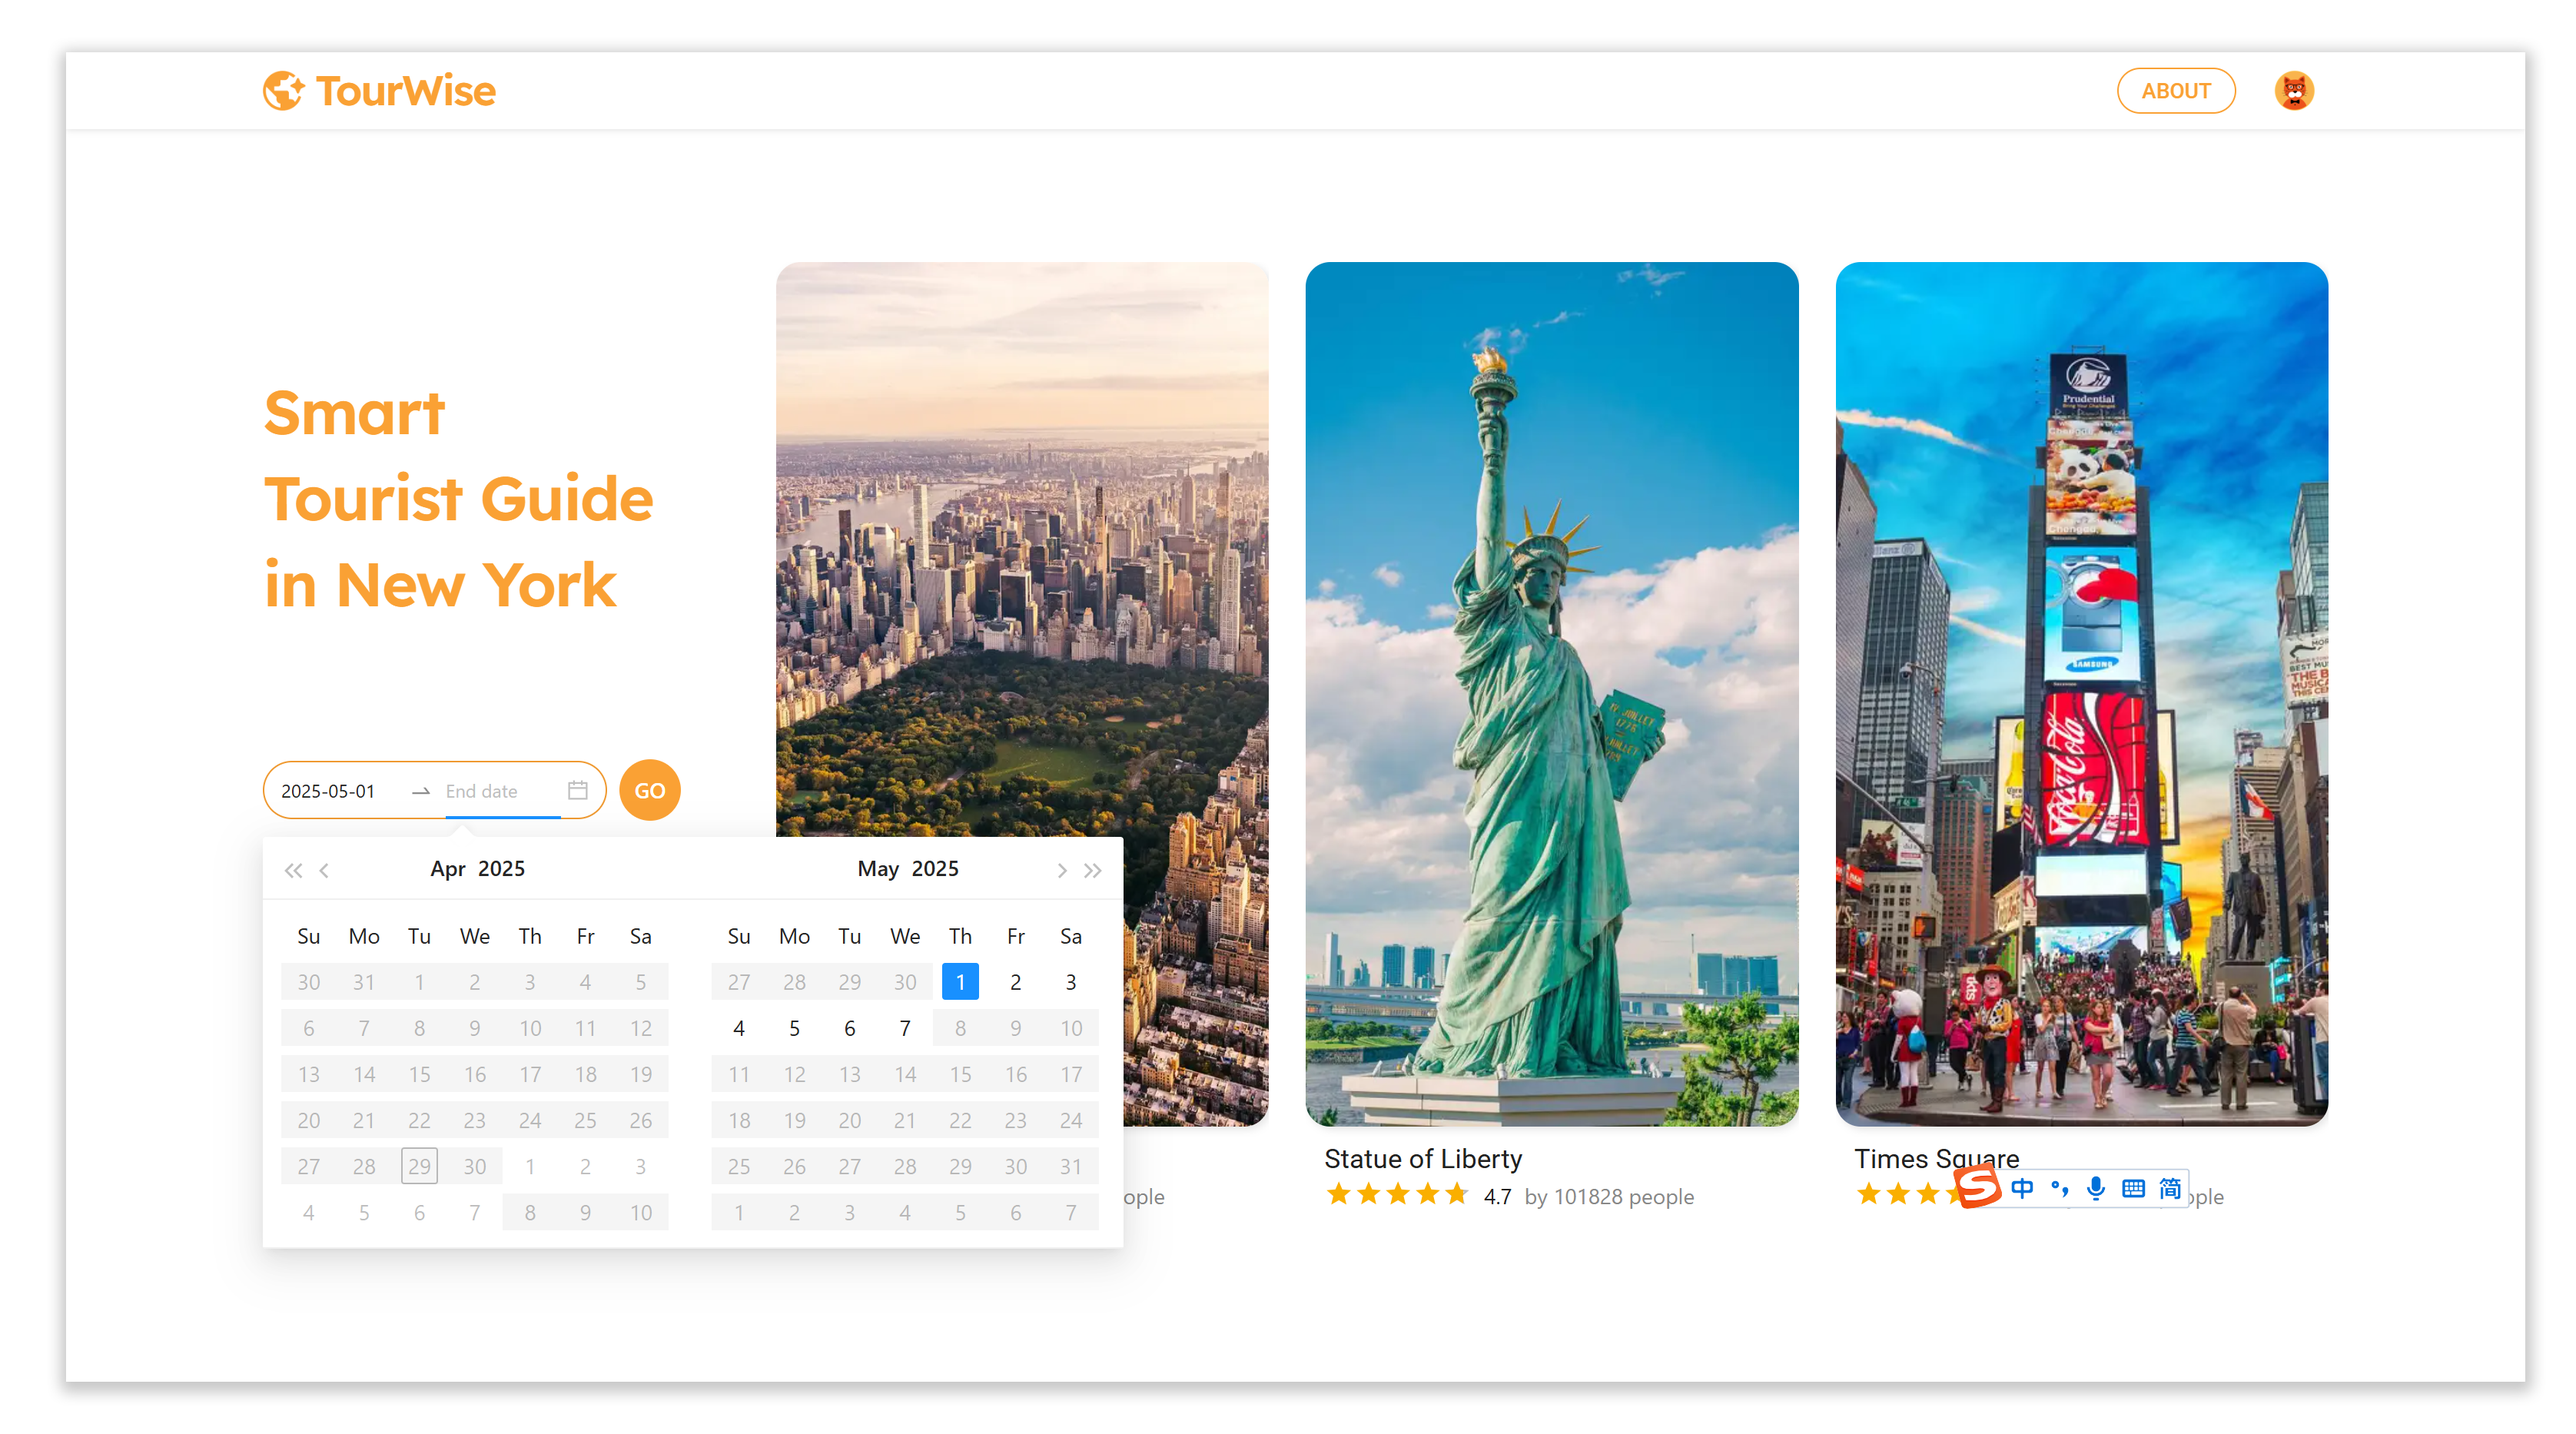
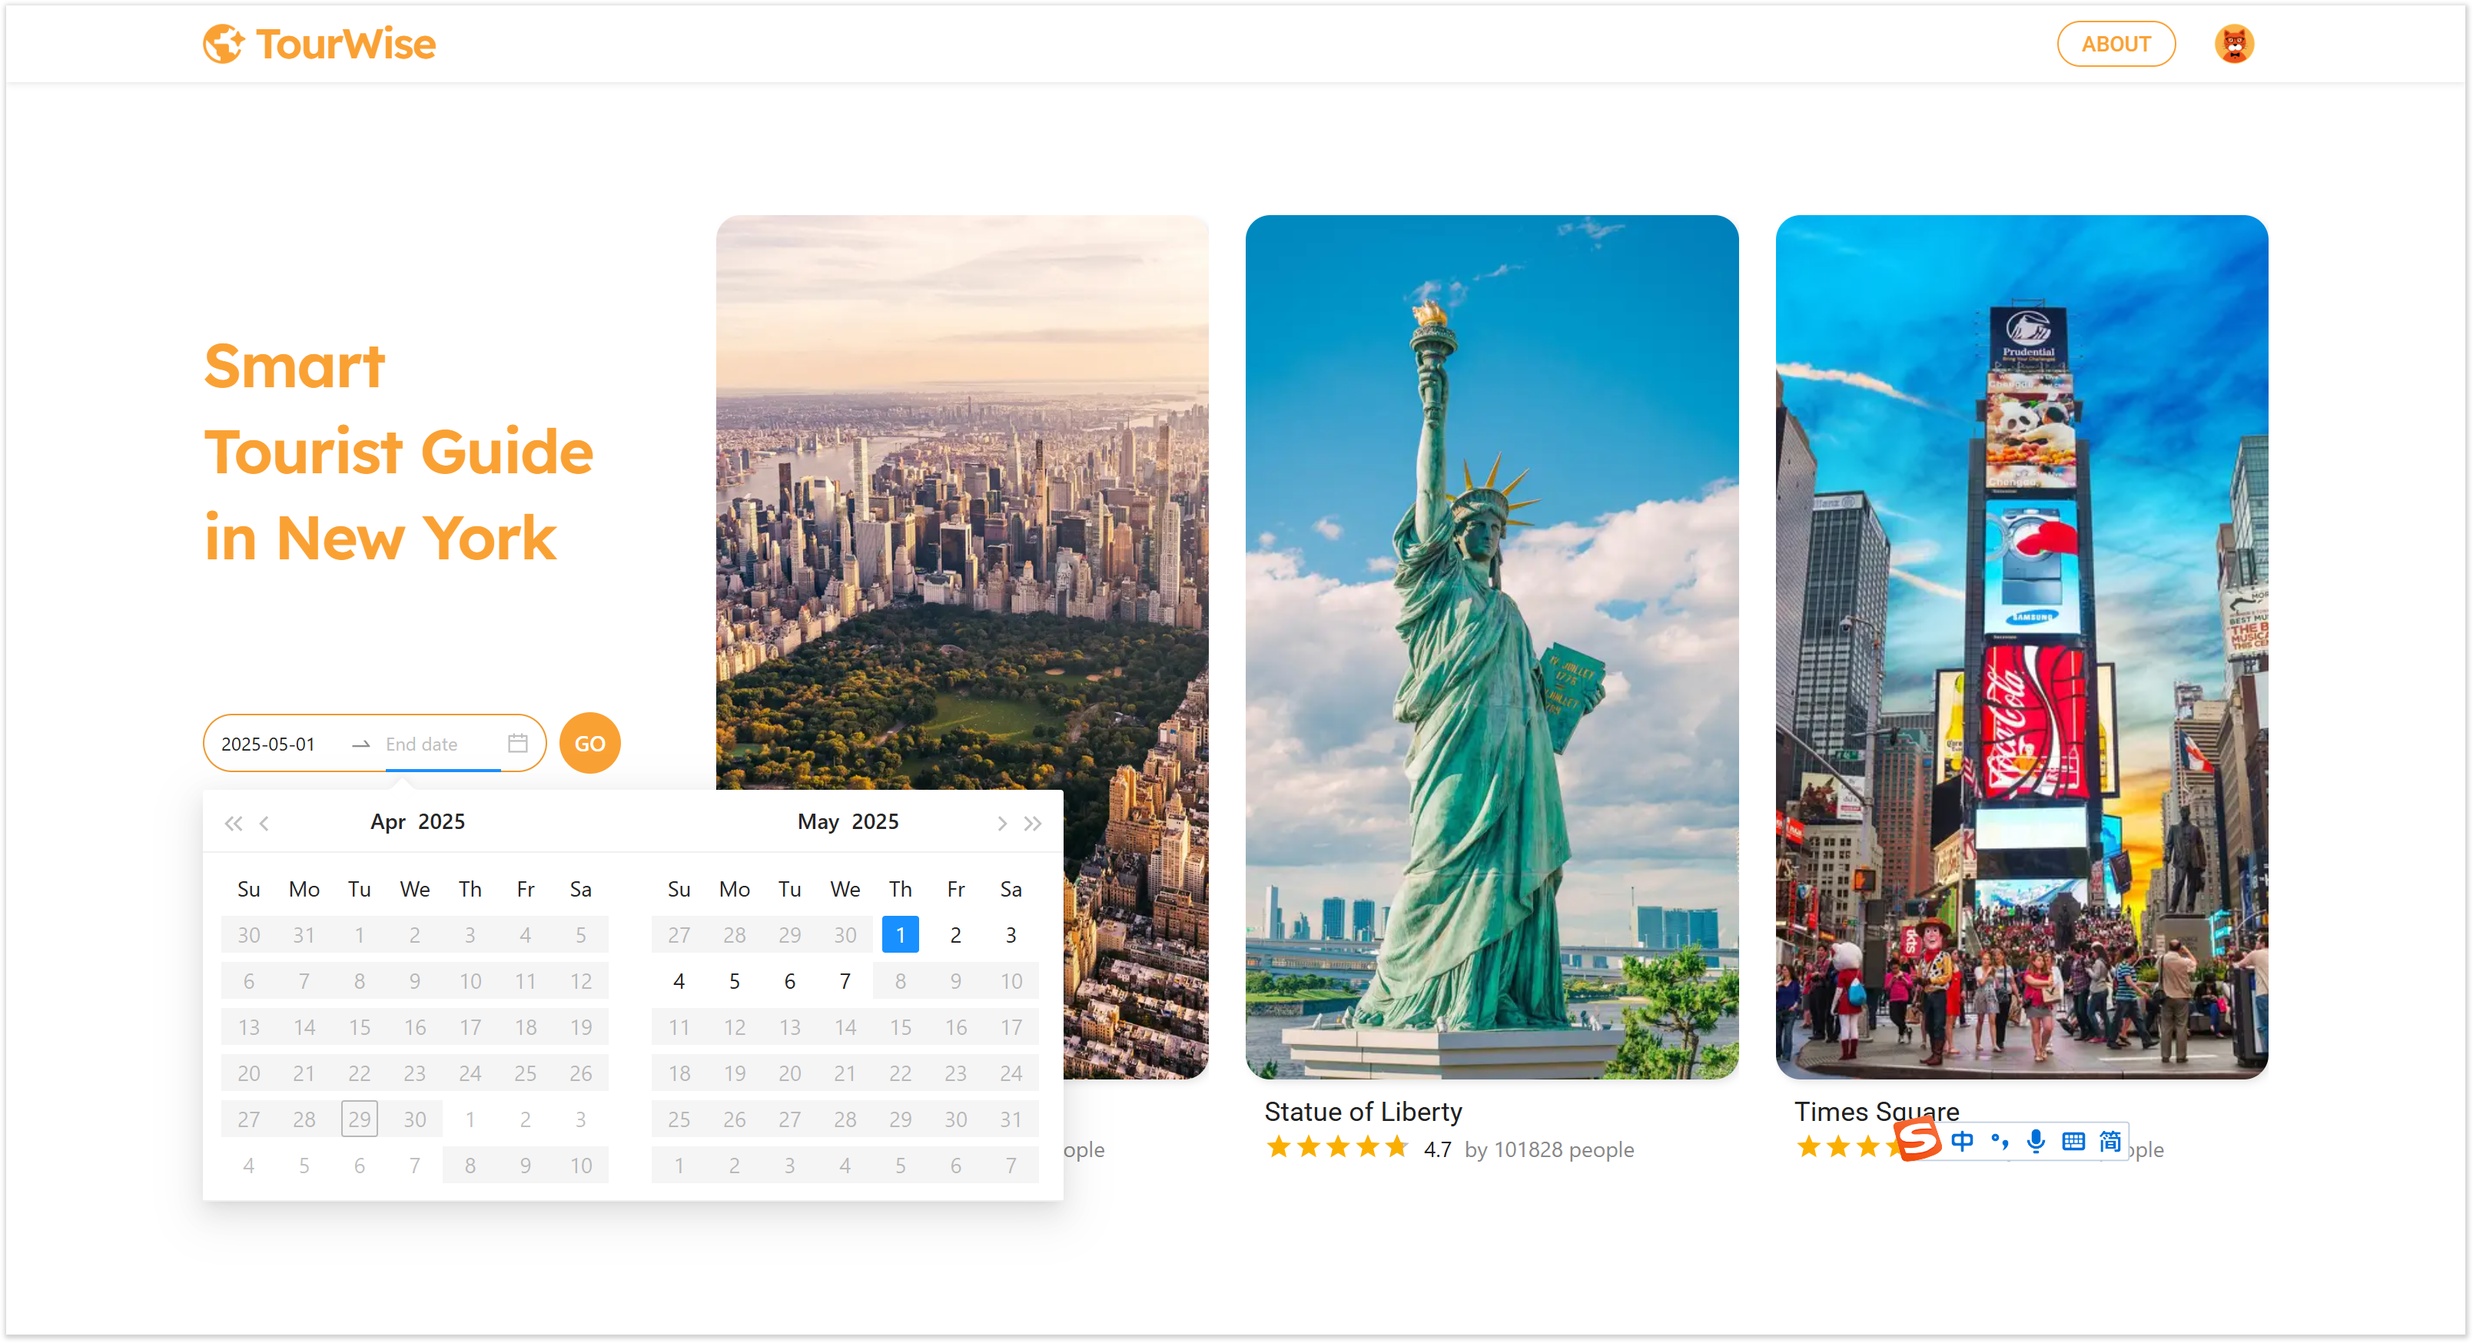
docs: update readme file

diff --git a/README.md b/README.md
@@ -80,7 +80,7 @@ In addition to the services, the platform relies on a centralized database compo
 
 Users can plan their travel within the next 30 days in Manhattan, New York City. On the landing page, users can select a start and end date for their trip.
 
-![landing-b](docs/images/landing-b.png)
+![landing-b](docs/images/landing2-shadow.png)
 
 #### ● Explore Popular Attractions in Manhattan
 
